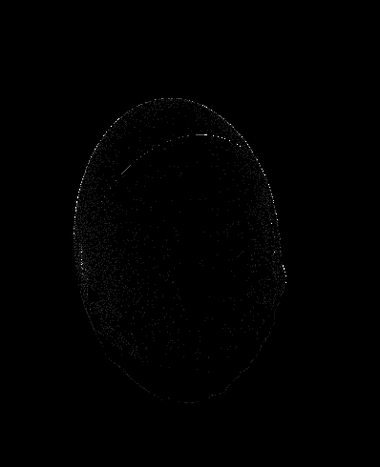
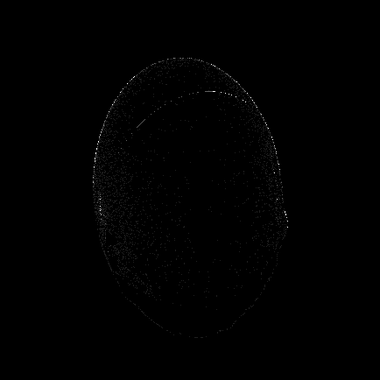
docs(gis): square figures for step 1, and what step 1 cannot show
The step-1 figures were cropped 0.39 wide by 0.48 tall, which made square
1020x1020 AFC frames look like a portrait detector. Recropped square around the
body, all three at the same scale, and the native format is stated.

Also records the limit of the step honestly: source and reprojection share one
camera, so a wrong ABSOLUTE roll rotates both together and cancels. What pins
roll is elsewhere -- the real ASPECT frame (-2.03 deg, IoU 93.9%), and for AFC
the same code landing within 11.9 deg of the COP frame at the same epoch, which
is nowhere near the 90 deg a wrong specialTrafos entry would give. Measured
principal axes at that epoch: delivered +7.96 deg (bbox 214x141), ours +19.85
deg (207x169) -- both landscape, 11.9 deg apart.

diff --git a/docs/ProjectionValidation.md b/docs/ProjectionValidation.md
@@ -59,6 +59,9 @@ rather than through a colour map.
 |---|---|---|
 | ![source](images/projectionValidation/step1-source.png) | ![reprojected](images/projectionValidation/step1-reprojected.png) | ![difference](images/projectionValidation/step1-diff.png) |
 
+(AFC-1 frames are **1020 × 1020** — square, per `hera_afc_v06.ti`. These three
+are the same square crop around the body, at the same scale.)
+
 | | |
 |---|---|
 | body pixels rendered / source non-zero | 54,662 / 54,707 |
@@ -76,6 +79,15 @@ bilinear resampling across a hard edge, which no projection can avoid.
 So the projection shader, the sidecar convention and the camera model are
 correct together. Anything that misregisters downstream is introduced after
 this point.
+
+**What this step cannot show.** Source and reprojection share one camera, so a
+wrong *absolute* roll would rotate both together and cancel. Roll is pinned
+elsewhere: against the real ASPECT frame it comes out at **−2.03°** (IoU 93.9%),
+and for AFC the same code lands within **11.9°** of the COP delivered frame at
+the same epoch — different by an amount the delivery's own 34° body-orientation
+error covers, and nowhere near the 90° a wrong `specialTrafos` entry would give.
+An independent absolute-roll check for AFC would need a real AFC frame with
+trustworthy metadata, which we do not have.
 
 ## Supporting evidence: a self-made AFC dataset
 
